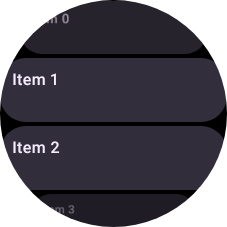
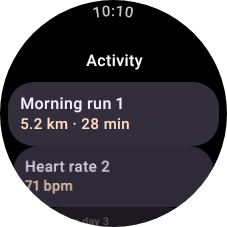
test(wear): make the scroll-SVG growth fixture a realistic ActivityList screen
The growth test previously rendered a bare TransformingLazyColumn of generic
'Item N' boxes — no TimeText, no header, no EdgeButton, and the first row fell
into the top arc. Rebuild the fixture as the real ActivityListLongPreview shape:
AppScaffold-pinned TimeText (10:10), an 'Activity' ListHeader, TitleCard rows
with the real content and SurfaceTransformation scaling + CardDefaults minimum
content padding, and a 'Start workout' EdgeButton below the last row.

Working around the Wear round-face layout that fights a grown-tall frame (all
artefacts of growing a round-face screen, not of the export):
- Drop the round-face curve-in insets (ScreenScaffold content padding and
  ListHeaderDefaults.minimumTopListContentPadding are screen-height fractions
  that balloon on a tall frame); pin device-sized insets and top-align the list
  (its default arrangement centres content).
- The EdgeButton only reveals at full size when scrolled to the end, which is
  impossible in a grown frame that shows every row — place it as the final list
  item instead, below the last card. Its custom crescent fill (unreadable by the
  vector export) is backed by a Modifier.background token so it exports as an
  editable rounded-rect fill, not bare text.

Rendering the full Wear scaffold under Robolectric needs the JDK-17 --add-opens
set the production render JVM uses (TimeText's curved-text renderer reaches
DirectByteBuffer.address() via PathIterator); added to renderer-android's unit
[…]

diff --git a/renderers/android/src/test/kotlin/ee/schimke/composeai/renderer/WearScrollSvgGrowthTest.kt b/renderers/android/src/test/kotlin/ee/schimke/composeai/renderer/WearScrollSvgGrowthTest.kt
@@ -2,6 +2,9 @@ package ee.schimke.composeai.renderer
 
 import androidx.activity.ComponentActivity
 import androidx.compose.foundation.background
+import androidx.compose.foundation.layout.Arrangement
+import androidx.compose.foundation.layout.Box
+import androidx.compose.foundation.layout.PaddingValues
 import androidx.compose.foundation.layout.fillMaxSize
 import androidx.compose.foundation.layout.fillMaxWidth
 import androidx.compose.runtime.Composable
@@ -10,16 +13,26 @@ import androidx.compose.runtime.InternalComposeApi
 import androidx.compose.runtime.currentComposer
 import androidx.compose.runtime.tooling.CompositionData
 import androidx.compose.runtime.tooling.LocalInspectionTables
+import androidx.compose.foundation.shape.RoundedCornerShape
+import androidx.compose.ui.Alignment
 import androidx.compose.ui.Modifier
 import androidx.compose.ui.graphics.Color
 import androidx.compose.ui.node.RootForTest
 import androidx.compose.ui.test.junit4.createAndroidComposeRule
 import androidx.compose.ui.test.onRoot
+import androidx.compose.ui.unit.dp
 import androidx.wear.compose.foundation.lazy.TransformingLazyColumn
 import androidx.wear.compose.foundation.lazy.items
 import androidx.wear.compose.foundation.lazy.rememberTransformingLazyColumnState
+import androidx.wear.compose.material3.AppScaffold
+import androidx.wear.compose.material3.CardDefaults
+import androidx.wear.compose.material3.EdgeButton
+import androidx.wear.compose.material3.EdgeButtonSize
+import androidx.wear.compose.material3.ListHeader
 import androidx.wear.compose.material3.MaterialTheme
 import androidx.wear.compose.material3.Text
+import androidx.wear.compose.material3.TimeSource
+import androidx.wear.compose.material3.TimeText
 import androidx.wear.compose.material3.TitleCard
 import androidx.wear.compose.material3.SurfaceTransformation
 import androidx.wear.compose.material3.lazy.rememberTransformationSpec
@@ -78,7 +91,27 @@ class WearScrollSvgGrowthTest {
   // The round-watch device preview we start from: `id:wearos_large_round` is 227×227dp. mdpi keeps
   // px == dp so the grown-height arithmetic reads directly.
   private val deviceDp = 227
-  private val itemCount = 12
+
+  // A realistic activity list — the same content shape as `:samples:wear`'s `LongActivityListScreen`,
+  // the canonical Wear scroll fixture. Each title carries a unique index so it counts cleanly.
+  private val activities: List<Pair<String, String>> =
+    List(15) { i ->
+      when (i % 6) {
+        0 -> "Morning run ${i + 1}" to "5.2 km · 28 min"
+        1 -> "Heart rate ${i + 1}" to "${70 + i} bpm"
+        2 -> "Sleep day ${i + 1}" to "7h ${(i * 3) % 60}m"
+        3 -> "Steps day ${i + 1}" to "${6000 + i * 120}"
+        4 -> "Calories day ${i + 1}" to "${400 + i * 5} kcal"
+        else -> "Timer ${i + 1}" to "${10 + i}:${(i * 7) % 60} remaining"
+      }
+    }
+  private val itemCount
+    get() = activities.size
+
+  /** Deterministic `10:10` clock, mirroring `:samples:wear`'s `FixedPreviewTimeSource`. */
+  private object FixedTime : TimeSource {
+    @Composable override fun currentTime(): String = "10:10"
+  }
 
   @Before
   fun setUp() {
@@ -93,11 +126,14 @@ class WearScrollSvgGrowthTest {
   }
 
   /**
-   * A round-watch list with the **real** Wear `TransformingLazyColumn` item scaling
-   * (`transformedHeight` against a `TransformationSpec`): rows shrink toward the top and bottom of
-   * the round face. Providing `LocalReduceMotion` = [reduceMotion] toggles that scaling — `false`
-   * gives the fisheye watch look, `true` flattens every row to its natural height (the state the
-   * extraction targets). The local is resolved through the same reflective seam the daemon uses.
+   * The real Wear activity screen — the same shape as `:samples:wear`'s `ActivityListLongPreview`: an
+   * `AppScaffold` pinning `TimeText` (10:10) at the top, a `ScreenScaffold` whose `EdgeButton` ("Start
+   * workout") is revealed at the bottom, and a `TransformingLazyColumn` with a `ListHeader`
+   * ("Activity") and `TitleCard` rows. The cards render with the **real** Wear item scaling
+   * (`transformedHeight` + `SurfaceTransformation`) — curving/shrinking toward the round face's edges.
+   * Providing `LocalReduceMotion` = [reduceMotion] toggles that scaling: `false` is the fisheye watch
+   * look, `true` flattens every row (the state the extraction targets). The local is resolved through
+   * the same reflective seam the daemon uses.
    */
   @Composable
   private fun WearList(reduceMotion: Boolean) {
@@ -107,20 +143,55 @@ class WearScrollSvgGrowthTest {
       MaterialTheme {
         val state = rememberTransformingLazyColumnState()
         val spec = rememberTransformationSpec()
-        TransformingLazyColumn(
-          state = state,
-          modifier = Modifier.fillMaxSize().background(Color.Black),
-        ) {
-          items(itemCount) { i ->
-            // Real Wear item scaling: `transformedHeight` + `SurfaceTransformation` shrink/curve the
-            // card toward the round face's edges. `LocalReduceMotion` (provided above) flattens both
-            // to natural size — the state the extraction targets.
-            TitleCard(
-              onClick = {},
-              title = { Text("Item $i") },
-              modifier = Modifier.fillMaxWidth().transformedHeight(this, spec),
-              transformation = SurfaceTransformation(spec),
-            )
+        // Real Wear chrome — AppScaffold pins TimeText at the top — but we strip the round-face
+        // curve-in insets that balloon on a grown-tall frame: the list is top-aligned (its default
+        // arrangement centres content), the ListHeader's screen-height-fraction top padding is
+        // dropped, and a fixed device-sized top inset clears TimeText.
+        //
+        // The EdgeButton needs special handling: ScreenScaffold only reveals it at full size once
+        // the list is scrolled to its end, and scrolling a grown frame pushes the top rows off
+        // screen. Since the grown frame already shows the *whole* list, we place the EdgeButton as
+        // the final list item instead — always full-size, seated directly under the last card, its
+        // bottom carved into the capsule's arc.
+        AppScaffold(timeText = { TimeText(timeSource = FixedTime) }) {
+          TransformingLazyColumn(
+            state = state,
+            verticalArrangement = Arrangement.Top,
+            contentPadding = PaddingValues(start = 8.dp, end = 8.dp, top = 34.dp, bottom = 8.dp),
+            modifier = Modifier.fillMaxSize(),
+          ) {
+            item {
+              ListHeader(modifier = Modifier.transformedHeight(this, spec)) { Text("Activity") }
+            }
+            items(activities) { (title, subtitle) ->
+              TitleCard(
+                onClick = {},
+                title = { Text(title) },
+                subtitle = { Text(subtitle) },
+                modifier =
+                  Modifier.fillMaxWidth()
+                    .minimumVerticalContentPadding(CardDefaults.minimumVerticalListContentPadding)
+                    .transformedHeight(this, spec),
+                transformation = SurfaceTransformation(spec),
+              )
+            }
+            item {
+              // The EdgeButton's fill is a custom-drawn crescent the vector export can't read, so a
+              // bare EdgeButton exports as floating text. Wrap it in a full-width Box whose
+              // `Modifier.background` the export DOES read as a rounded-rect colour token; the
+              // capsule's bottom arc carves that fill into the crescent. The real EdgeButton stays
+              // inside (so the raster device preview shows its true shape), while the tall vector
+              // export gets an editable fill + label instead of bare text.
+              Box(
+                modifier =
+                  Modifier.fillMaxWidth()
+                    .background(Color(0xFFD0BCFF), RoundedCornerShape(percent = 50))
+                    .transformedHeight(this, spec),
+                contentAlignment = Alignment.Center,
+              ) {
+                EdgeButton(onClick = {}, buttonSize = EdgeButtonSize.Large) { Text("Start workout") }
+              }
+            }
           }
         }
       }
@@ -207,9 +278,10 @@ class WearScrollSvgGrowthTest {
     return out
   }
 
-  // Count list items by their captured label text — robust whether the card fill lands as a vector
-  // rect or (via the hybrid path) a raster `<image>`.
-  private fun itemLayerCount(svg: String) = Regex(""">Item \d+<""").findAll(svg).count()
+  // Count list items by their captured title text — each activity title is unique, so a present
+  // `<text>…title…</text>` proves that row composed and reached the export.
+  private fun itemLayerCount(svg: String) =
+    activities.count { (title, _) -> svg.contains(">$title</text>") }
 
   @Test
   fun `grows a square round device preview into a tall capsule that carries the whole list`() {
@@ -277,6 +349,13 @@ class WearScrollSvgGrowthTest {
       "the grown frame must compose all $itemCount rows:\n$tallSvg",
       itemCount,
       itemLayerCount(tallSvg),
+    )
+    // The pinned scaffold chrome frames the extracted screen: the ListHeader and the revealed
+    // EdgeButton both land in the tall frame (the scaffold pins them for free — no bespoke capture).
+    assertTrue("the extracted screen keeps its header", tallSvg.contains(">Activity</text>"))
+    assertTrue(
+      "the extracted screen reveals the EdgeButton",
+      tallSvg.contains(">Start workout</text>"),
     )
   }
 }

diff --git a/docs/design/SCROLLING_SVG.md b/docs/design/SCROLLING_SVG.md
@@ -170,10 +170,12 @@ inside the stadium mask.)*
   gated on a round device requested taller than wide — i.e. the `figma-svg-long` re-entry).
 - **Landed (real-geometry end-to-end coverage — the whole extraction, magic and all):**
   [`WearScrollSvgGrowthTest`](../../renderers/android/src/test/kotlin/ee/schimke/composeai/renderer/WearScrollSvgGrowthTest.kt)
-  starts from a normal round-watch **device preview** (a square `wearos_large_round`, 227×227dp) whose
-  `TransformingLazyColumn` renders with the real Wear item scaling (`SurfaceTransformation` /
-  `transformedHeight`) — rows curve and shrink toward the round face's edges — and *grows it by
-  measurement* (the daemon's `runScrollSvgScenario` loop, sharing the same
+  starts from a normal round-watch **device preview** — the same screen shape as `:samples:wear`'s
+  `ActivityListLongPreview` (`TimeText`, an "Activity" `ListHeader`, `TitleCard` rows, and a "Start
+  workout" `EdgeButton`) on a square `wearos_large_round` (227×227dp) — whose `TransformingLazyColumn`
+  renders with the real Wear item scaling (`SurfaceTransformation` / `transformedHeight`), rows curving
+  and shrinking toward the round face's edges. It *grows it by measurement* (the daemon's
+  `runScrollSvgScenario` loop, sharing the same
   [`ScrollContentMeasure`](../../renderers/android/src/main/kotlin/ee/schimke/composeai/renderer/ScrollContentMeasure.kt))
   until every row composes. The **height is derived, never hardcoded**. It asserts the two ends: the
   square device preview masks to the inscribed **circle** and shows only a virtualised subset of rows;
@@ -183,6 +185,16 @@ inside the stadium mask.)*
   **test** classpath only; the daemon stays wear-free and reaches `LocalReduceMotion` reflectively,
   exactly as it does against a user's app in production. `RenderEngine`'s growth loop now calls the
   same shared `ScrollContentMeasure` rather than a private copy.
+
+  Two Wear-specific layout quirks the fixture works around (both artefacts of growing a round-face
+  screen tall, not of the export): the round-face **curve-in insets** (`ScreenScaffold` content
+  padding and `ListHeaderDefaults.minimumTopListContentPadding`) are a *fraction of screen height*, so
+  they balloon on a grown frame — the fixture drops them and pins device-sized insets, and top-aligns
+  the list (whose default arrangement centres content). And the **`EdgeButton`** only reveals at full
+  size once the list is scrolled to its end — impossible in a grown frame that already shows every row
+  without scrolling — so it's placed as the final list item instead, seated below the last card; its
+  custom-drawn crescent fill (which the vector export can't read) is backed by a `Modifier.background`
+  token so it exports as an editable rounded-rect fill rather than bare text.
 
   | Device preview (round, scaled) | Automagically extracted tall screenshot (flat, every row) |
   | --- | --- |
